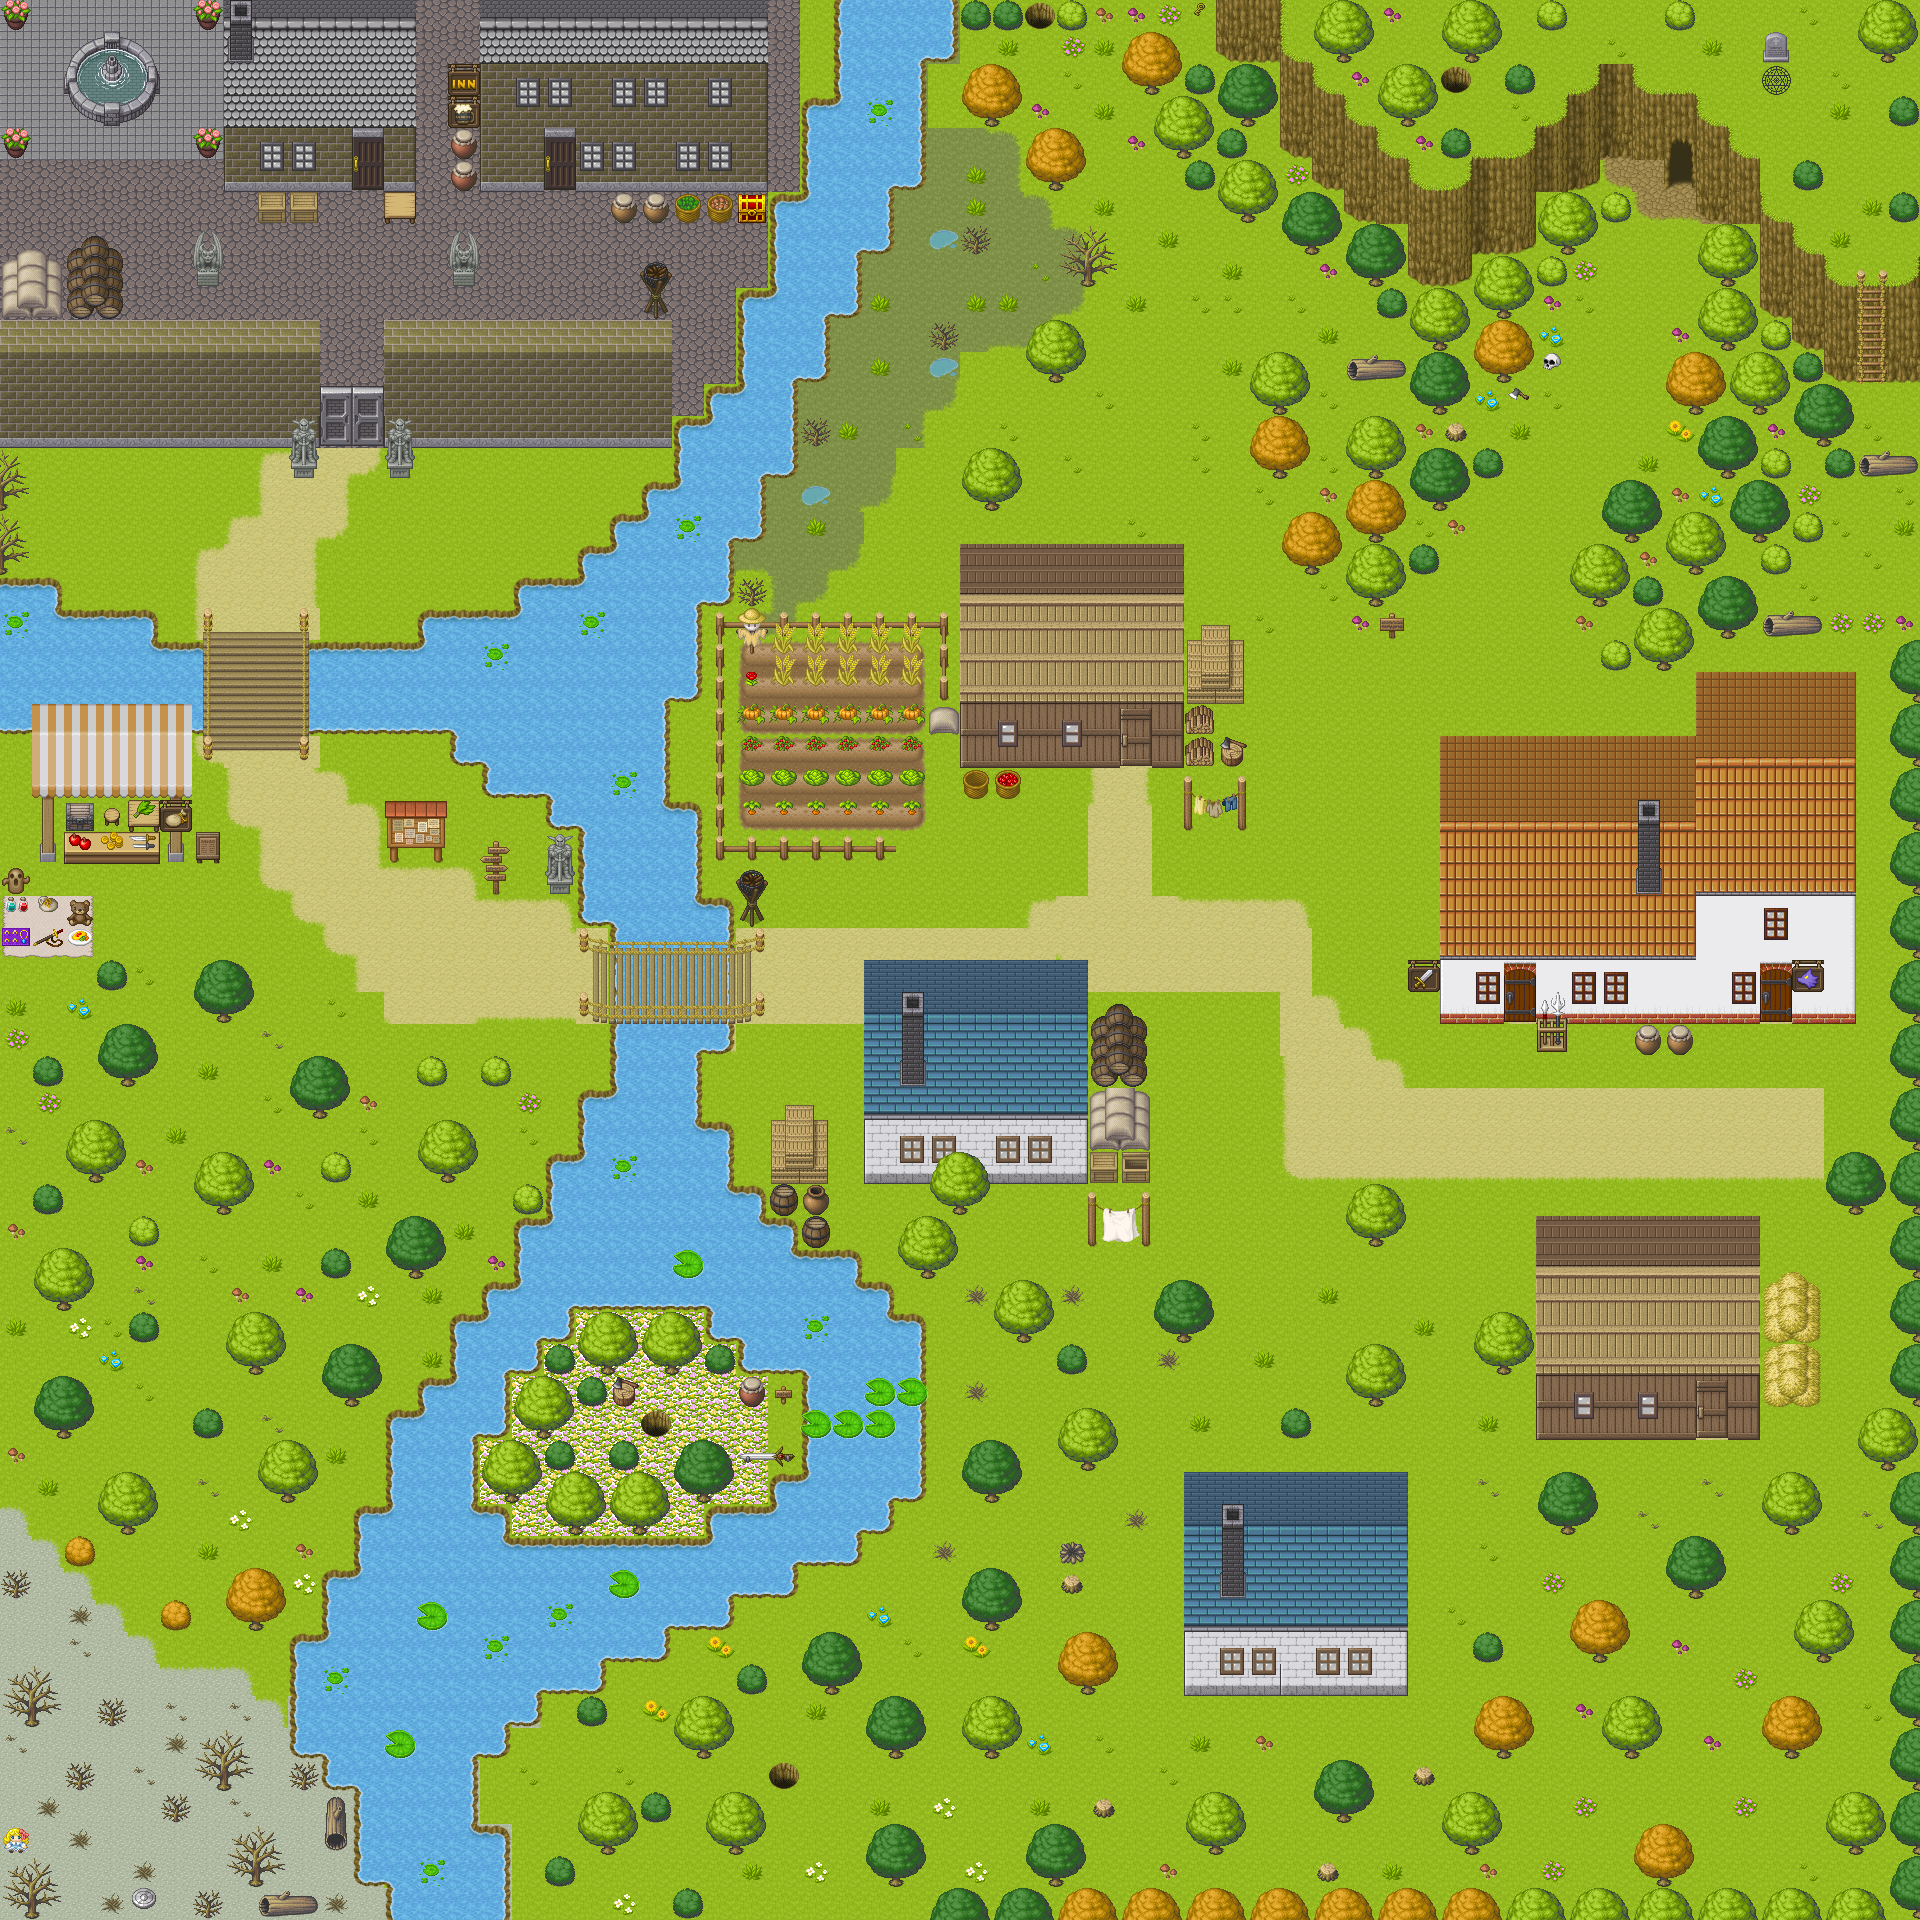
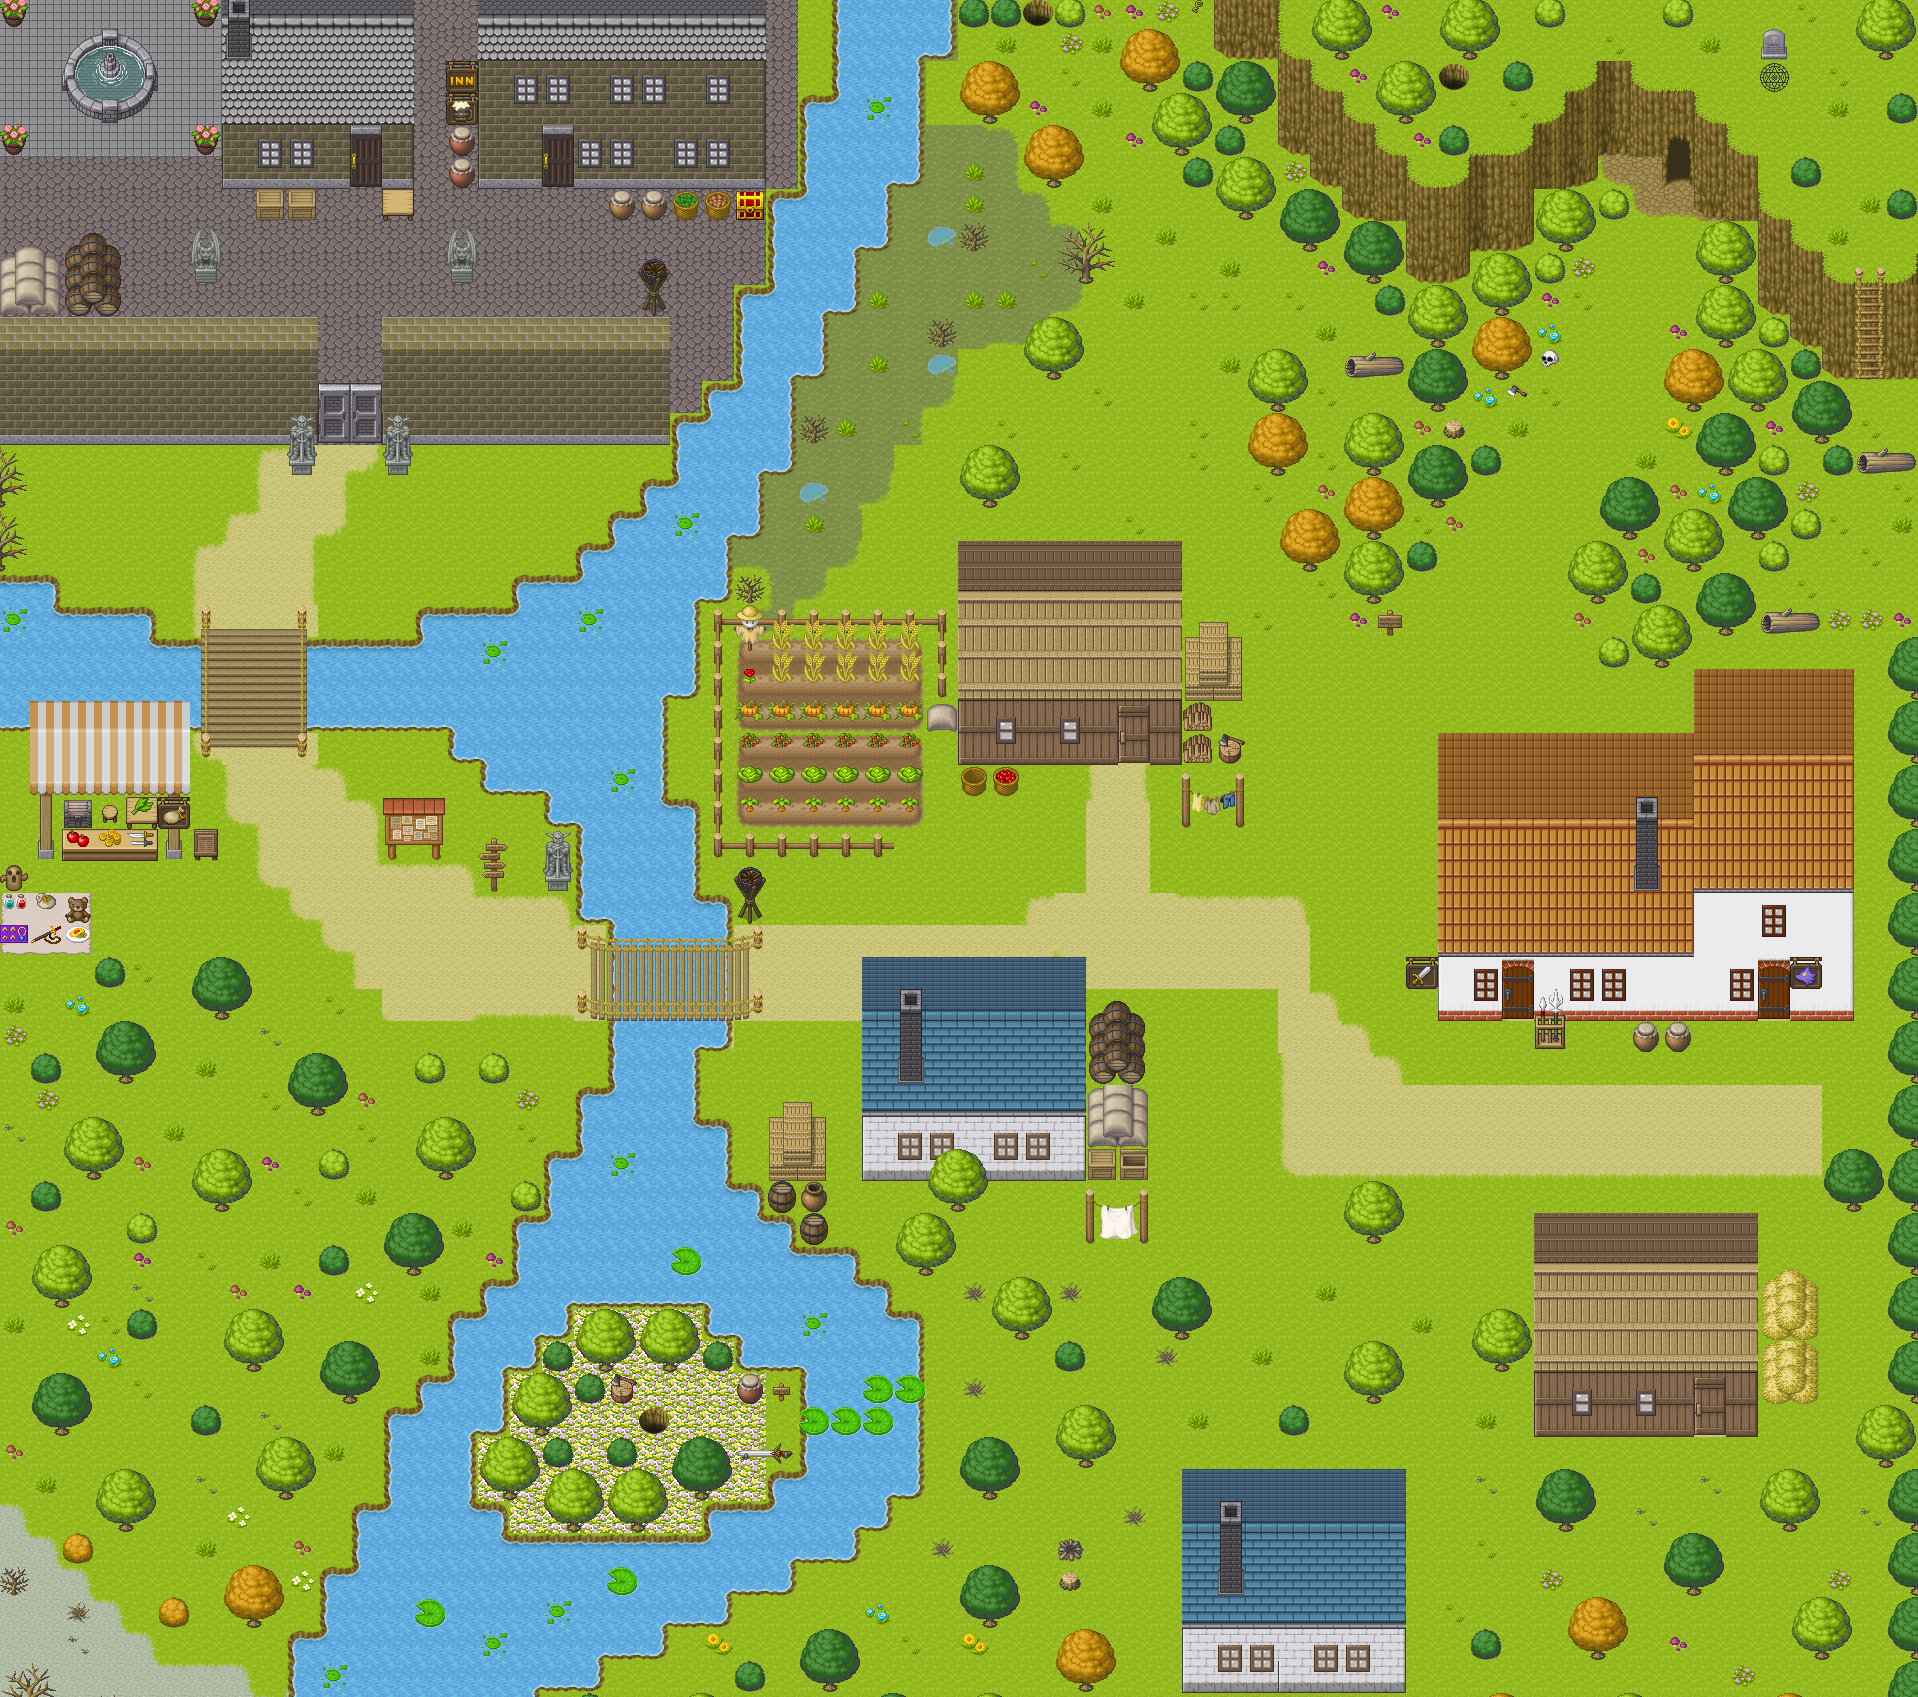
got cloud animation to work

diff --git a/public/assets/css/style.css b/public/assets/css/style.css
@@ -2,22 +2,45 @@
 @import url('https://fonts.googleapis.com/css2?family=VT323&display=swap');
 @import url('https://fonts.googleapis.com/css2?family=Press+Start+2P&display=swap');
 
+
 body {
   background-image: url('/assets/mainmapforprojectv3.png');
-  background-size: auto;
+  background-size: cover;
 }
-
 /* navbar text */
 .navbar span,
 .btn {
   margin: 7px;
   font-family: 'VT323', monospace;
-  font-size: 25px;
+  font-size: 30px;
 }
 
 /* navbar color */
 .navbar {
   background-color:rgba(0, 0, 0, 0.397);
+}
+
+.clouds {
+  position: absolute;
+  top: 0;
+  left: 0;
+  width: 100%;
+  height: 100%;
+  overflow: hidden;
+}
+.clouds img {
+  position: absolute;
+  bottom: 0;
+  max-width: 100%;
+  animation: animate calc(10s * var(--i)) linear infinite;
+}
+@keyframes animate {
+  0% {
+    transform: translateX(-100%);
+  }
+  100% {
+    transform: translateX(100%);
+  }
 }
 
 /* sign up button */
@@ -37,6 +60,10 @@ body {
   color: black;
 }
 
+#container {
+  background-color: blue;
+  height: 200px;
+}
 /* scrypts of betrayal text in homepage */
 h1 {
   font-size: 60px;
@@ -48,7 +75,7 @@ h1 {
   text-shadow:
     0 0 5px #fff,
     0 0 10px #fff,
-    0 0 20px #fff,
+    0 0 20px black,
     0 0 40px rgb(255, 0, 0),
     0 0 80px rgb(255, 0, 0),
     0 0 100px rgb(255, 0, 0),
@@ -100,8 +127,16 @@ h4 {
 
 /* how to play column */
 #column5 {
-  background-color: royalblue;
+  background-color: #E6E6E6;
   border-radius: 2em;
+  color: black;
+  font-size: 20px;
+  display: flex;
+  align-items: center;
+  justify-content: center;
+}
+#column6 {
+  min-height: max-content;
 }
 
 /* game page */
@@ -111,10 +146,14 @@ h4 {
   justify-content: center;
   align-content: center;
 }
+
 #game-body {
   background-color: black;
 }
 
+div .container {
+  background-size: cover;
+}
 /* btn is nav bar and sign in buttons */
 /* btn2 is GitHub link in about us page */
 .btn:hover,
